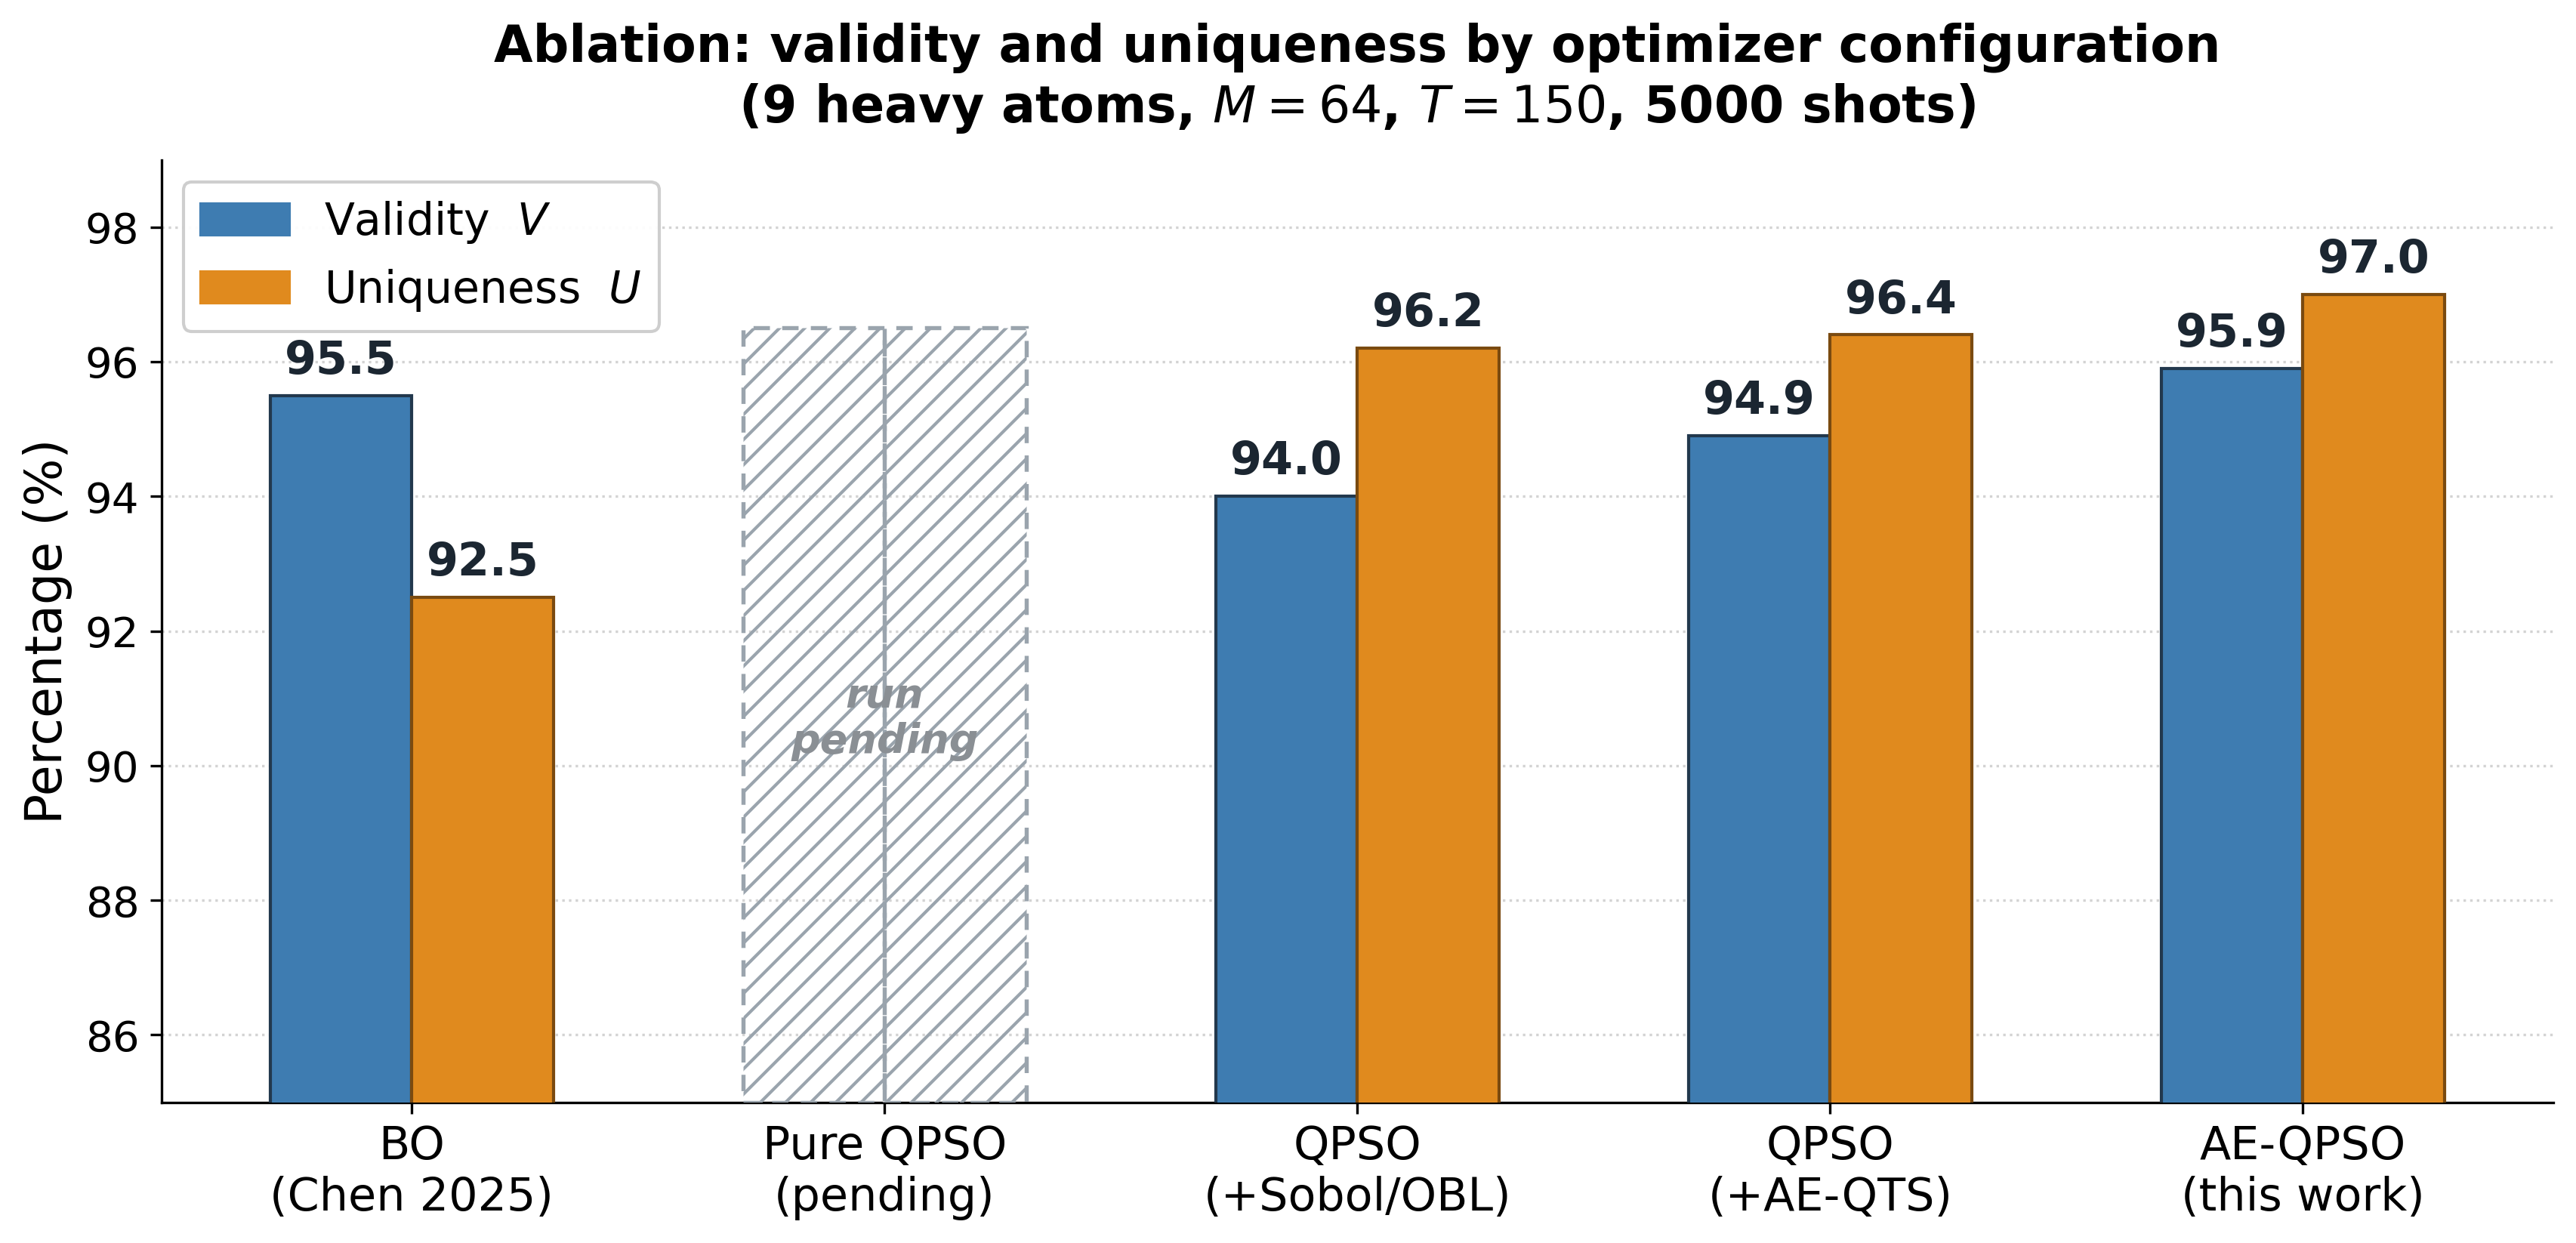
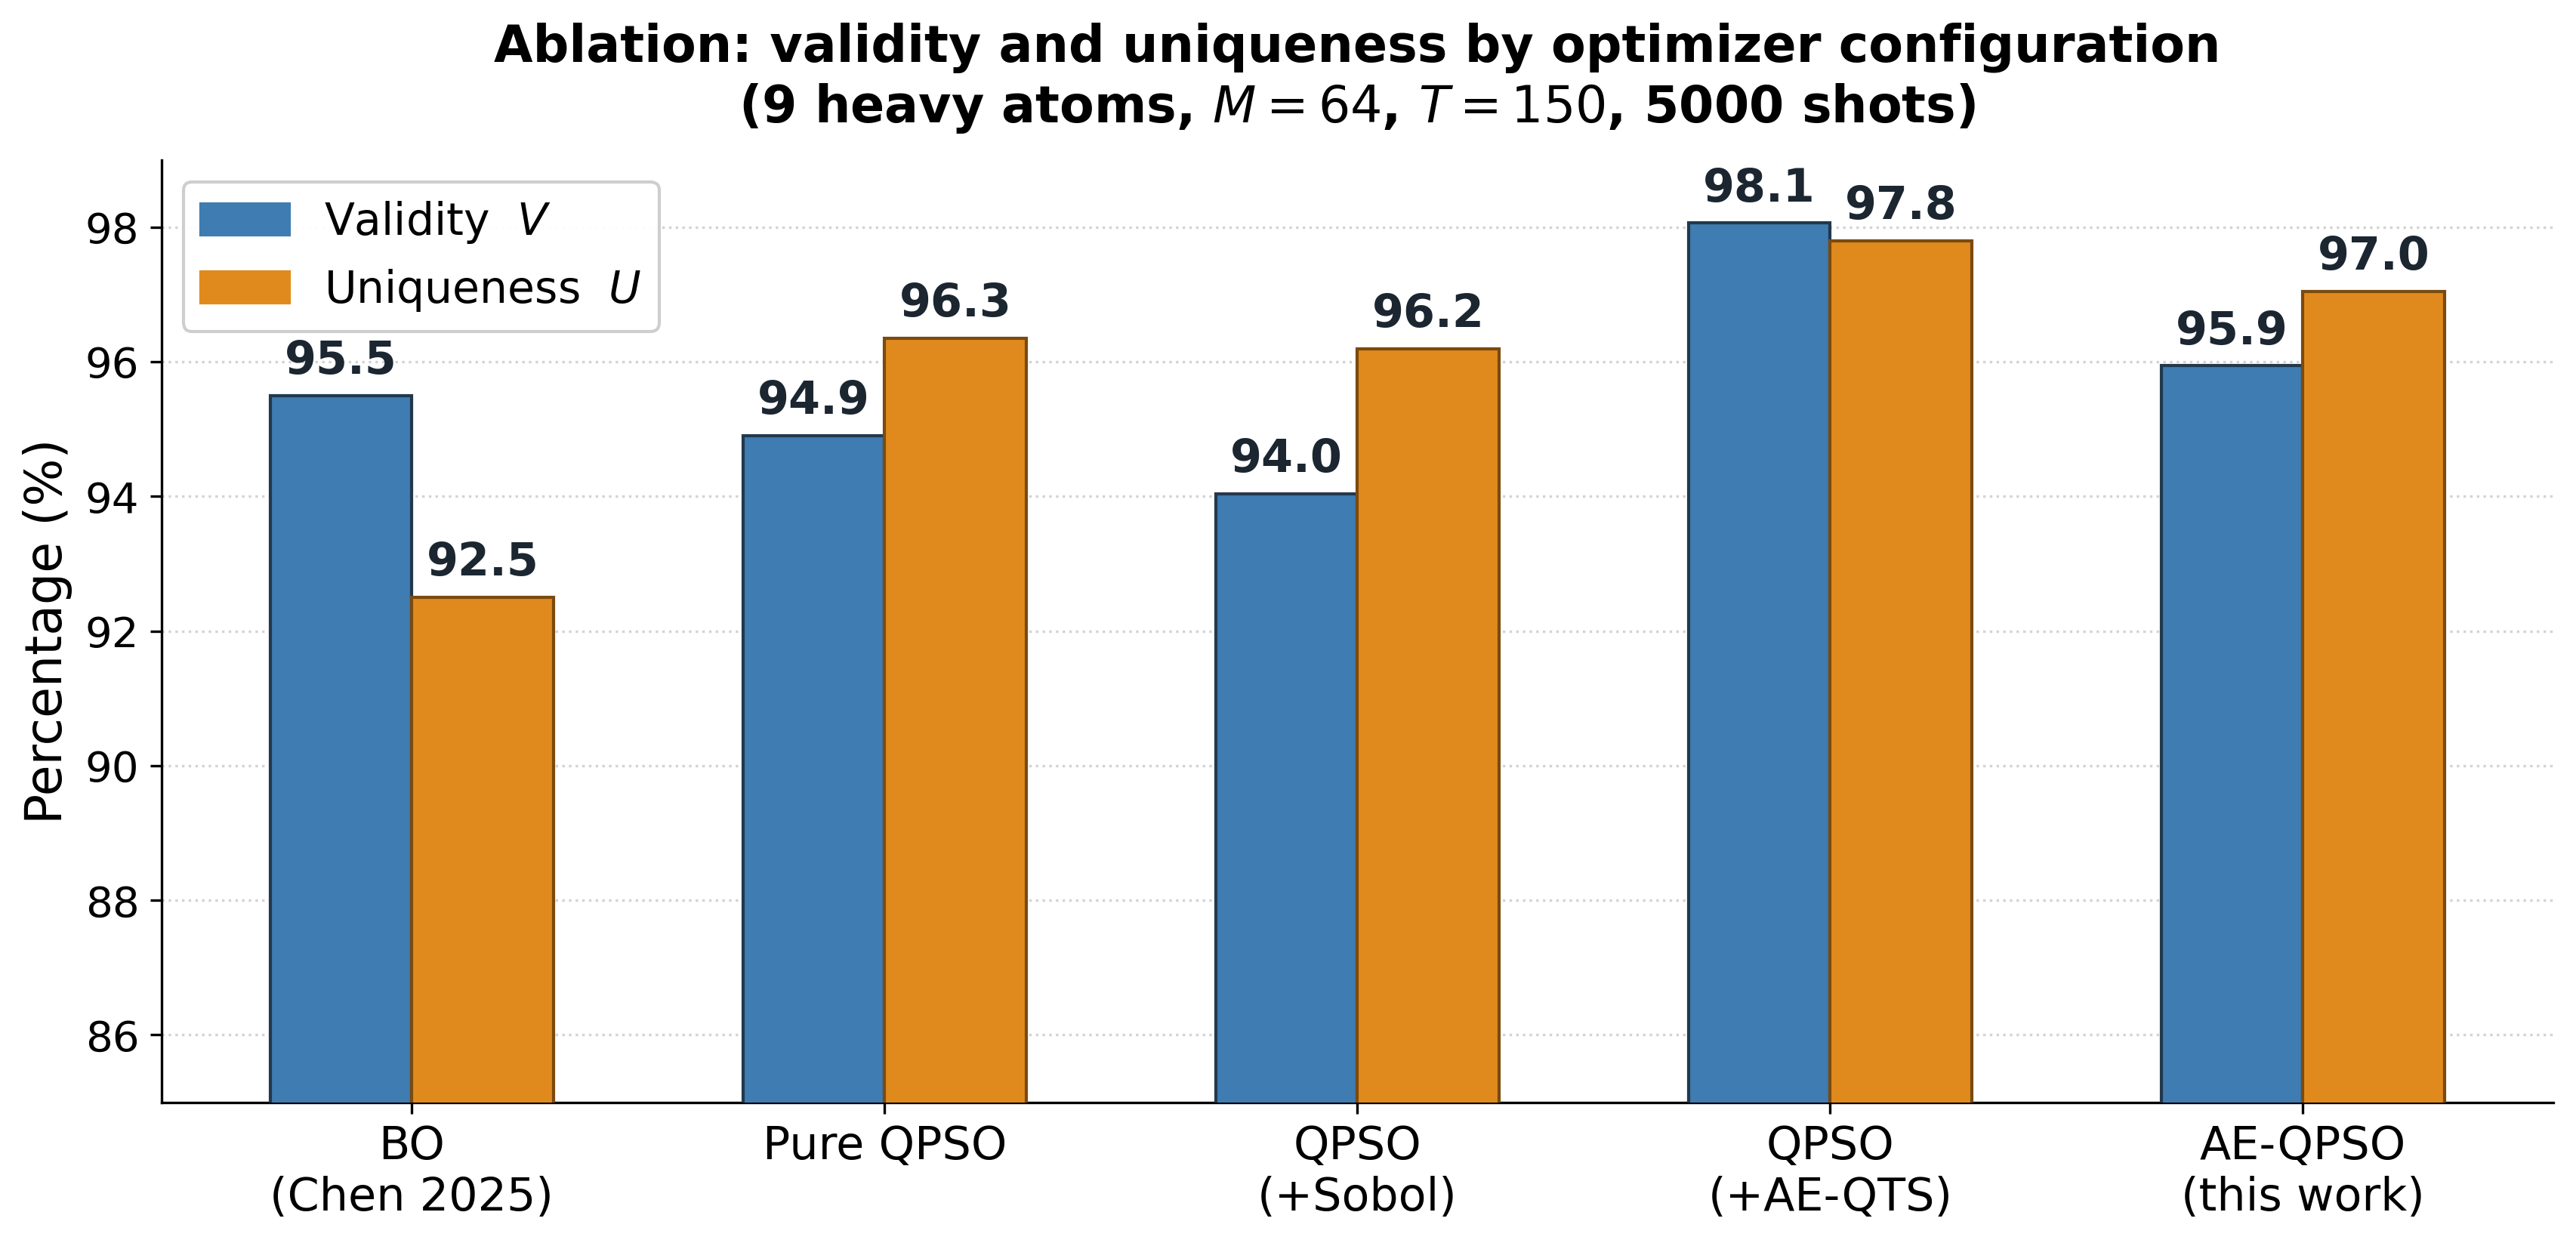
fix: Fig2 ablation bars used wrong/mislabeled data; revert Fig3
Root cause: figures/make_fig2_bars.py hardcoded [V,U] values with no
source reference (single commit 4a8c58f, no comment). Cross-checked
against the four actual DGX111 ablation logs (all M=64, T=150, 5000
shots, seed=0):

- "Pure QPSO" was marked "run pending" even though
  results_qpso_nosobol/unconditional_9_qpso_nosobol_M64T150.log had
  already finished (V=94.90, U=96.35).
- "QPSO (+AE-QTS)" showed [94.9, 96.4] -- these are actually the Pure
  QPSO run's numbers, misplaced. The real AE-QTS-only run
  (results_qpso_aeqts/unconditional_9_qpso_aeqts_M64T150.log) was
  never plotted: V=98.06, U=97.80.
- "QPSO (+Sobol/OBL)" values [94.0, 96.2] do match
  results_qpso_pure/unconditional_9_qpso_pure_M64T150.log, but that
  run has OBL OFF -- relabeled to "QPSO (+Sobol)" for accuracy.

Fixed make_fig2_bars.py with the correct per-run values (see inline
comments citing each source log) and regenerated fig2_VU_bars.png/pdf.
Notably the corrected chart now shows QPSO(+AE-QTS) alone (98.1/97.8)
outscoring the full AE-QPSO method (95.9/97.0) on this single-seed,
unconstrained M=64/T=150 task -- consistent with the earlier ablation
discussion (V-U decouple/OBL/paired-exploration trade convergence
ceiling for robustness on harder, constrained objectives).

Also reverted figures/fig3_convergence.png/pdf back to the version
before the BO growth curve was added (per user request), i.e. back
to commit 608e28a's state.

diff --git a/figures/make_fig2_bars.py b/figures/make_fig2_bars.py
@@ -2,9 +2,21 @@ import matplotlib; matplotlib.use("Agg")
 import matplotlib.pyplot as plt, numpy as np
 import matplotlib.patches as mpatches
 plt.rcParams.update({"font.size":15,"font.family":"DejaVu Sans"})
-labels=["BO\n(Chen 2025)","Pure QPSO\n(pending)","QPSO\n(+Sobol/OBL)","QPSO\n(+AE-QTS)","AE-QPSO\n(this work)"]
-V=[95.5, None, 94.0, 94.9, 95.9]
-U=[92.5, None, 96.2, 96.4, 97.0]
+# Values below are read directly from each run's final log line, all M=64,
+# T=150, 5000 shots, seed=0 (except BO baseline, see chen2025 reference log):
+#   Pure QPSO   <- results_qpso_nosobol/unconditional_9_qpso_nosobol_M64T150.log
+#                  (no Sobol, no OBL, no AE-QTS, no VU-decouple)
+#   +Sobol      <- results_qpso_pure/unconditional_9_qpso_pure_M64T150.log
+#                  (Sobol init only; OBL/AE-QTS/VU-decouple all off)
+#   +AE-QTS     <- results_qpso_aeqts/unconditional_9_qpso_aeqts_M64T150.log
+#                  (AE-QTS signed mbest only; no Sobol/OBL/VU-decouple)
+#   AE-QPSO     <- results_v8/unconditional_9_ae_v8.log (all four on)
+# Previous hardcoded values [94.9,96.4] mislabeled "+AE-QTS" were actually the
+# Pure QPSO run's numbers; the real AE-QTS-only run (98.06/97.80) was never
+# plotted. Fixed here.
+labels=["BO\n(Chen 2025)","Pure QPSO","QPSO\n(+Sobol)","QPSO\n(+AE-QTS)","AE-QPSO\n(this work)"]
+V=[95.5, 94.90, 94.04, 98.06, 95.94]
+U=[92.5, 96.35, 96.19, 97.80, 97.04]
 x=np.arange(len(labels)); w=0.30
 cV="#3E7CB1"; cU="#E08A1E"
 fig,ax=plt.subplots(figsize=(11.6,5.7))